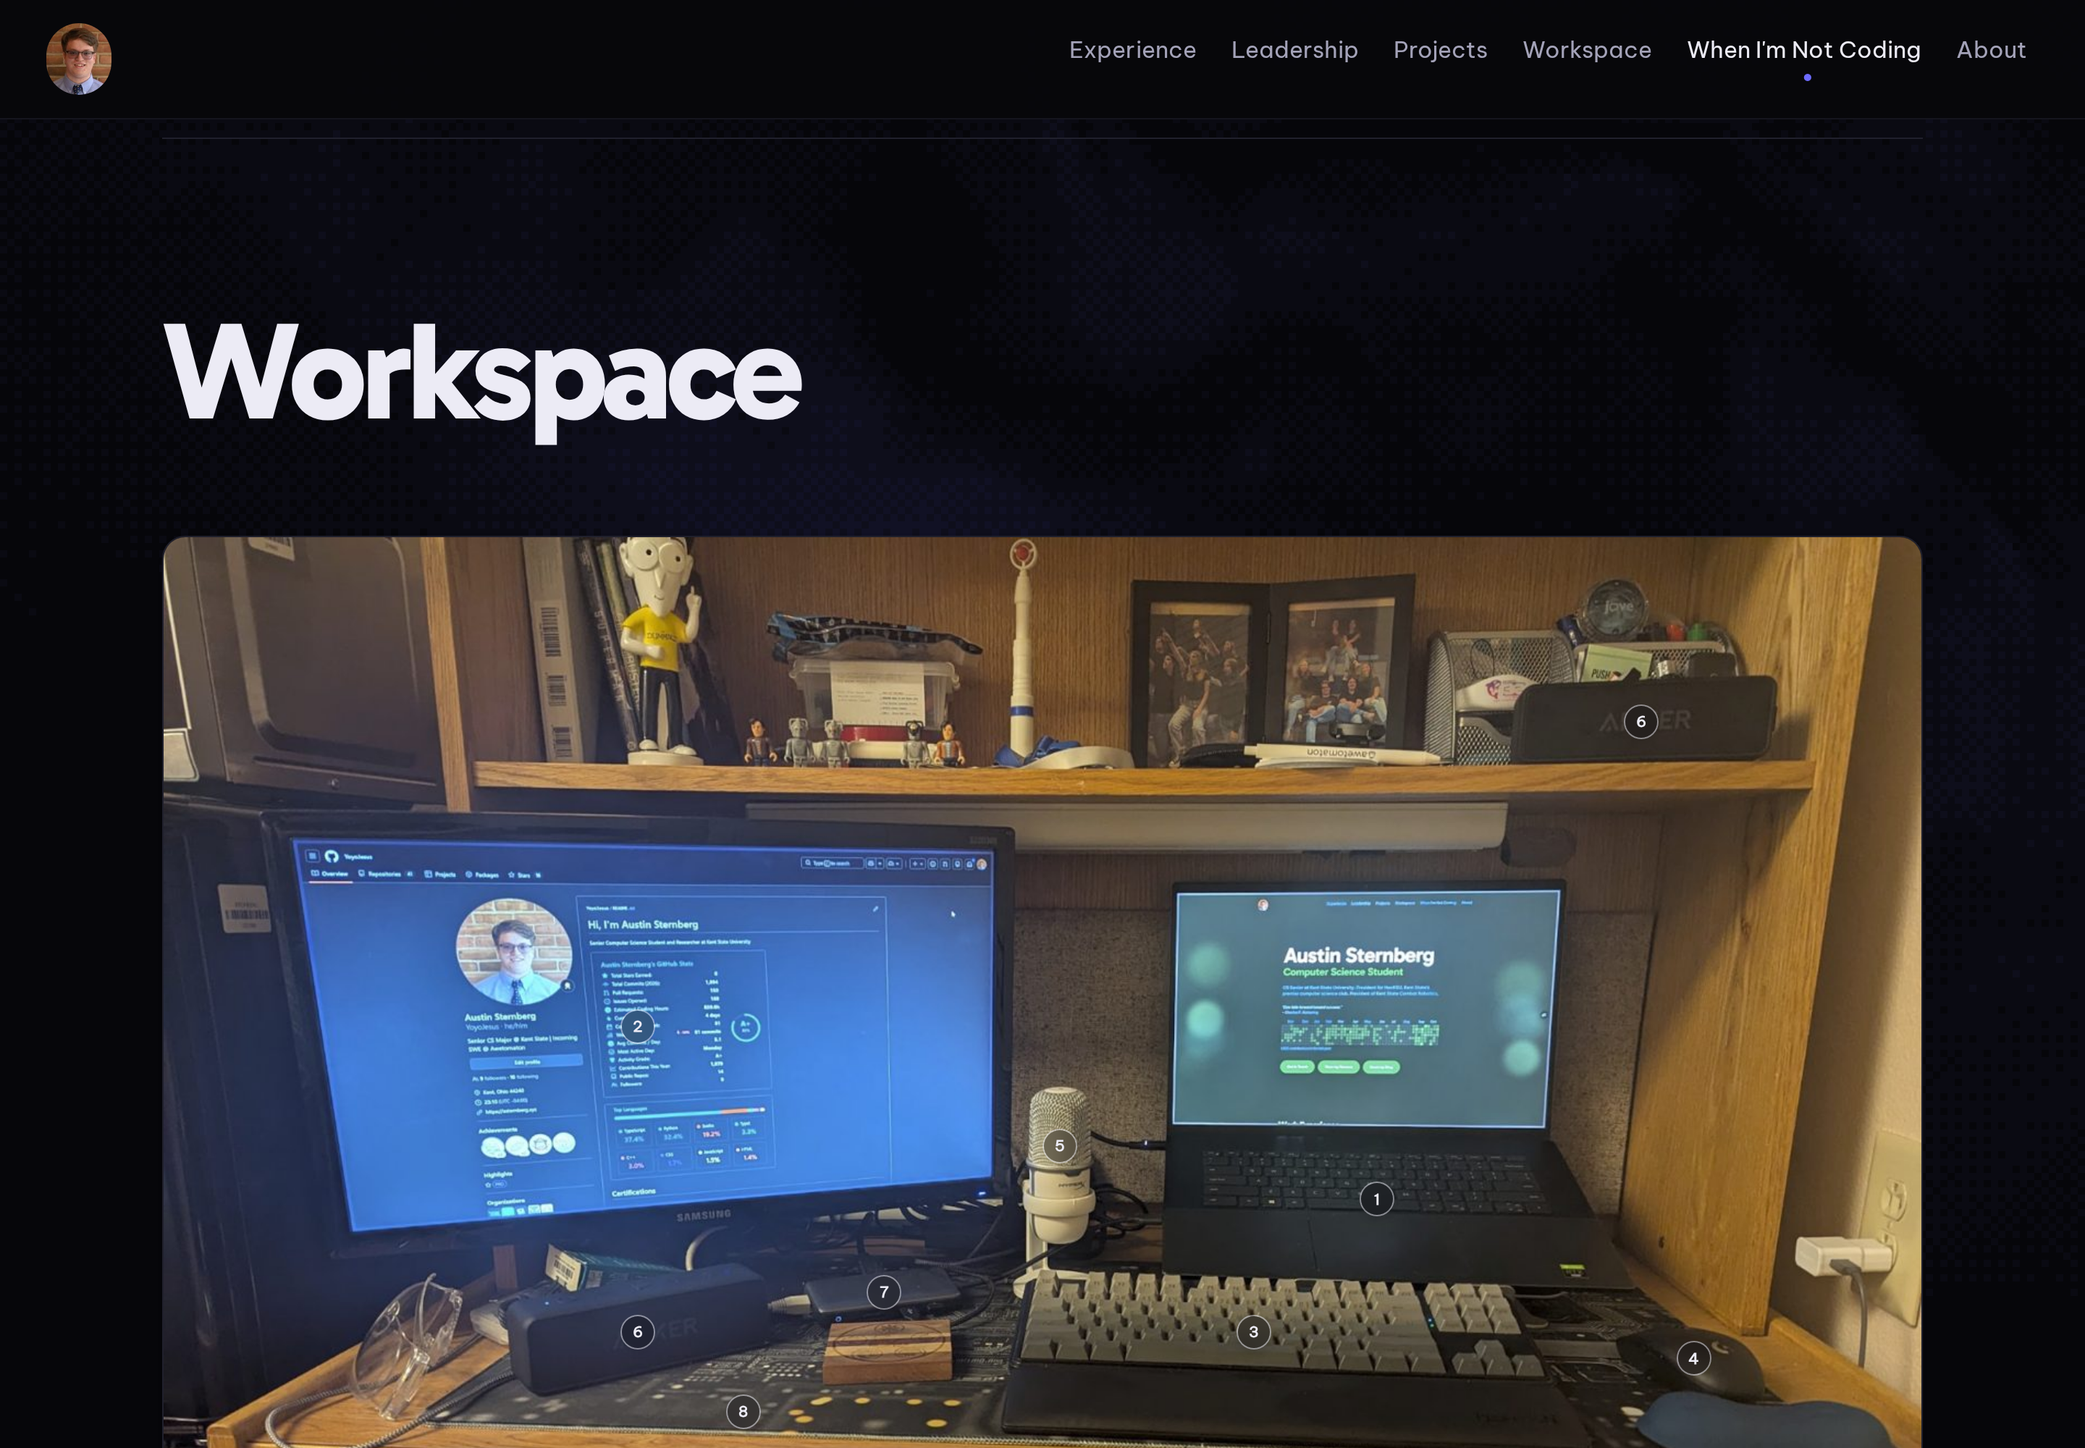
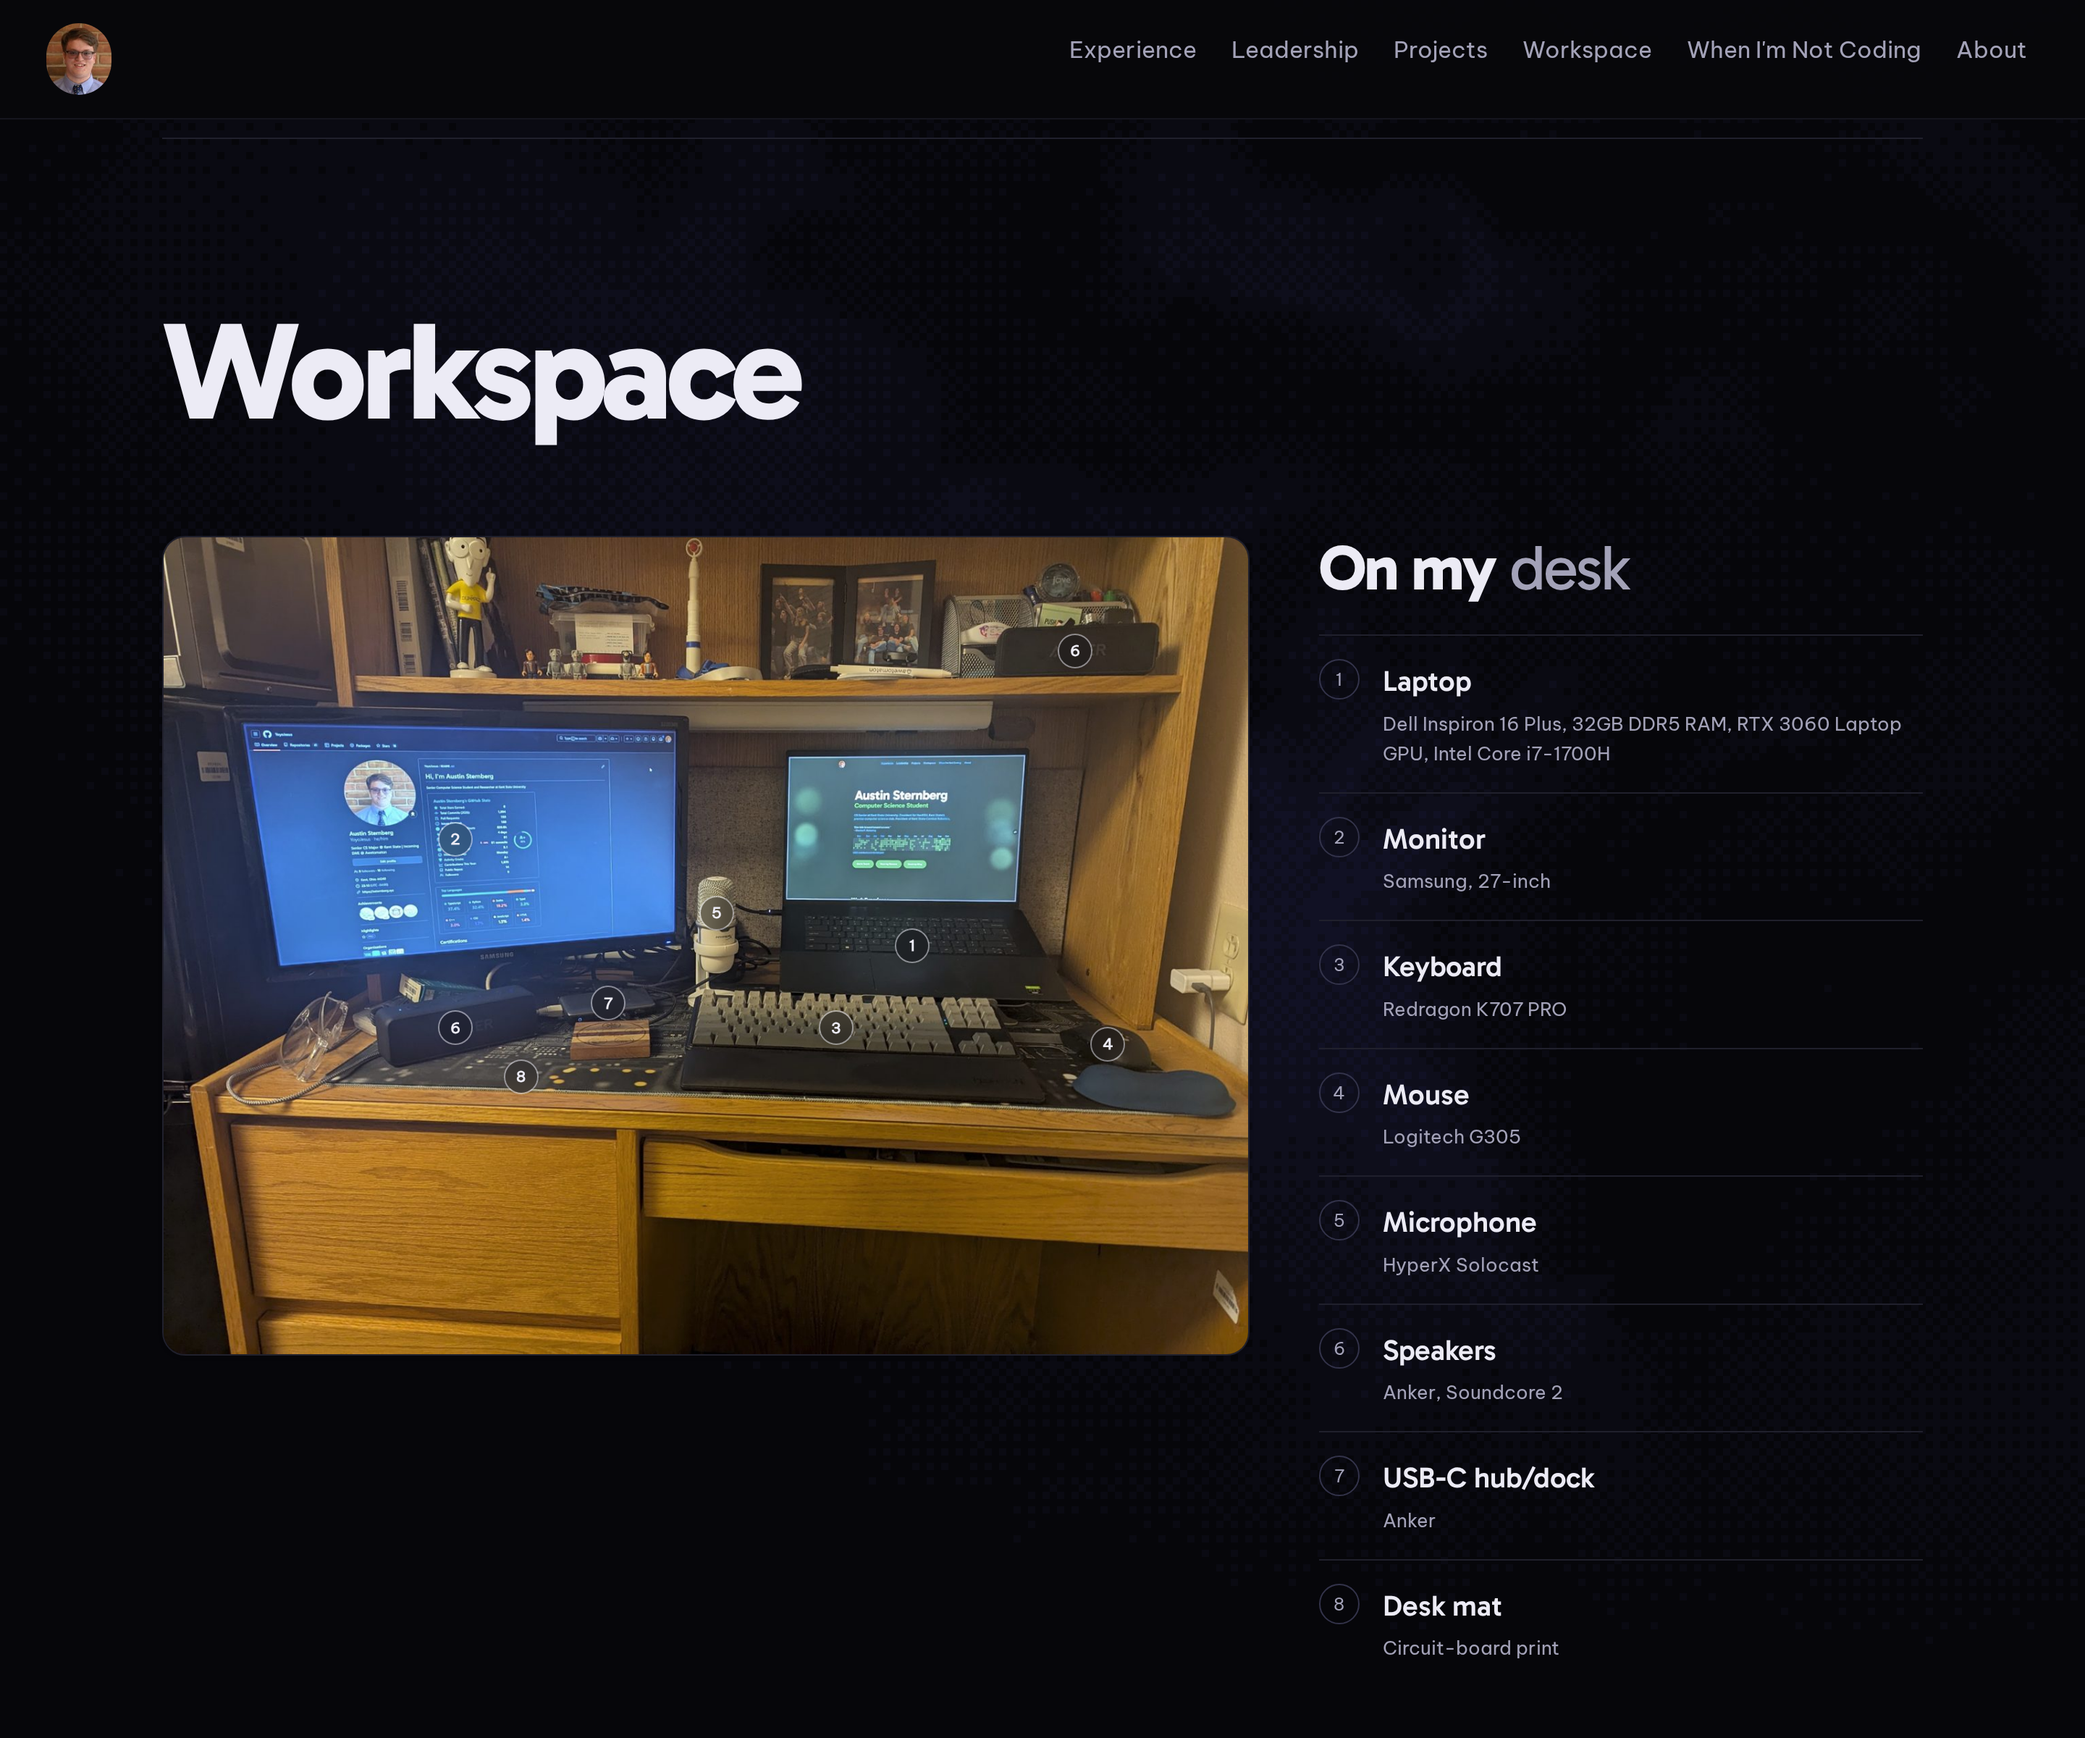
style: redesign workspace spread and media journal layouts

diff --git a/src/lib/components/OffTheClock.svelte b/src/lib/components/OffTheClock.svelte
@@ -29,7 +29,6 @@
   let { films, listening, letterboxdUser, lastfmUser, gaming, steamId }: Props = $props();
 
   // Phones only get the first three films and games.
-  const mobileHide = (i: number) => (i >= 3 ? "max-sm:hidden" : "");
   const maxPlays = $derived(Math.max(...listening.topArtists.map((a) => a.plays), 1));
   const watchedOn = (d: string) =>
     new Date(`${d}T12:00:00`).toLocaleDateString("en-US", { month: "short", day: "numeric" });
@@ -42,8 +41,8 @@
   const toggleReview = (i: number) => (openReview = openReview === i ? null : i);
 
   // Keep popovers on screen: the first column opens rightward, the last leftward, and the phone's middle column centers.
-  const mobileSide = ["max-sm:left-0", "max-sm:left-1/2 max-sm:-translate-x-1/2", "max-sm:right-0"];
-  const popoverSide = (i: number) => `${mobileSide[i % 3]} ${i % 5 === 0 ? "sm:left-0" : "sm:right-0"}`;
+  const mobileSide = (i: number) => i === 0 || i % 2 === 1 ? "max-sm:left-0" : "max-sm:right-0";
+  const popoverSide = (i: number) => `${mobileSide(i)} ${i % 5 === 0 ? "sm:left-0" : "sm:right-0"}`;
 </script>
 
 <!-- composedPath keeps the original ancestors, so clicks on buttons that remove themselves (like the spoiler reveal) still count as inside. -->
@@ -55,7 +54,8 @@
 />
 
 <Section text={hacker.on ? "$ ps aux --afk" : "When I'm Not Coding"} href="not-coding">
-  <div class="activity-section">
+  <div class="media-journal">
+  <div class="activity-section film-journal">
     <div class="activity-heading">
       <h3 class="activity-title">
         <IconLetterboxd class="size-6 text-accent" /> Recently <span>Watched</span>
@@ -69,9 +69,9 @@
       </a>
     </div>
     {#if films.length}
-      <ul class="grid grid-cols-3 gap-3 sm:grid-cols-5">
+      <ul class="film-shelf">
         {#each films as f, i}
-          <li class={["relative", mobileHide(i)]}>
+          <li class="film-entry relative">
             <a href={f.link} target="_blank" class="group block" title={`${f.title} (${f.year})`}>
               <img
                 src={f.poster}
@@ -80,6 +80,7 @@
                 class="aspect-[2/3] w-full rounded-lg border border-neutral/20 object-cover transition-all group-hover:ring-2 group-hover:ring-accent"
               />
             </a>
+            <p class="film-name">{f.title} <span>({f.year})</span></p>
             <div class="mt-1.5 flex flex-wrap items-center justify-between gap-x-1 text-xs whitespace-nowrap">
               <span class="text-accent">{stars(f.rating)}</span>
               <span class="flex items-center gap-1 text-neutral">
@@ -182,7 +183,7 @@
     {/if}
   </div>
 
-  <div class="activity-section">
+  <div class="activity-section music-journal">
     <div class="activity-heading">
       <h3 class="activity-title">
         <IconLastfm class="size-6 text-accent" /> Listening <span>Activity</span>
@@ -202,7 +203,7 @@
           : "Last.fm didn't respond. Try refreshing in a minute."}
       </p>
     {:else}
-      <div class="grid grid-cols-1 gap-10 sm:grid-cols-2">
+      <div class="music-columns">
         <ol class="min-w-0 space-y-3">
           {#each listening.recent as t}
             <li>
@@ -246,7 +247,8 @@
     {/if}
   </div>
 
-  <div class="activity-section">
+  </div>
+  <div class="activity-section games-journal">
     <div class="activity-heading">
       <h3 class="activity-title">
         <IconSteam class="size-6 text-accent" /> Most <span>Played</span>
@@ -260,17 +262,18 @@
       </a>
     </div>
     {#if gaming.games.length}
-      <ul class="grid grid-cols-3 gap-3 sm:grid-cols-5">
+      <ul class="game-shelf">
         {#each gaming.games as g, i}
-          <li class={mobileHide(i)}>
-            <a href={g.link} target="_blank" class="group block" title={g.name}>
+          <li>
+            <a href={g.link} target="_blank" class="game-entry group" title={g.name}>
               <img
                 src={g.cover}
                 alt={`${g.name} cover`}
                 loading="lazy"
                 class="aspect-[2/3] w-full rounded-lg border border-neutral/20 object-cover transition-all group-hover:ring-2 group-hover:ring-accent"
               />
-              <span class="mt-1.5 flex items-center justify-between text-xs">
+              <span class="game-info">
+                <strong>{g.name}</strong>
                 <span class="text-accent tabular-nums">{g.hours.toLocaleString("en-US")} hrs</span>
                 <span class="flex items-center gap-1 text-neutral">
                   {#if g.recent}<IconController class="size-3.5 text-accent" />{/if}
@@ -306,7 +309,22 @@
 </Section>
 
 <style>
-  .activity-section + .activity-section { margin-top: 4rem; padding-top: 3rem; border-top: 1px solid var(--color-edge-strong); }
+  .media-journal { display: grid; gap: 3rem; align-items: start; }
+  .film-shelf { display: grid; grid-template-columns: repeat(2, minmax(0, 1fr)); gap: 2rem 1rem; }
+  .film-entry:first-child { grid-column: 1 / -1; }
+  .film-entry:first-child > a { max-width: 22rem; }
+  .film-name { margin-top: 0.75rem; color: var(--color-white); font-family: var(--font-serif); font-size: 1.15rem; line-height: 1.25; }
+  .film-name span { color: var(--color-neutral); font-size: 0.8rem; }
+  .music-columns { display: grid; gap: 2.5rem; min-width: 0; }
+  .games-journal { margin-top: 4rem; padding-top: 3rem; border-top: 1px solid var(--color-edge-strong); }
+  .game-shelf { display: grid; gap: 1rem 2rem; }
+  .game-entry { display: grid; grid-template-columns: 4rem minmax(0, 1fr); align-items: center; gap: 1rem; padding-block: 1rem; border-top: 1px solid var(--color-edge); }
+  .game-entry img { width: 4rem; height: 5.5rem; }
+  .game-info { display: flex; flex-direction: column; align-items: start; gap: 0.4rem; font-size: 0.8rem; }
+  .game-info strong { font-family: var(--font-serif); color: var(--color-white); font-size: 1.3rem; font-weight: 500; }
+  @media (min-width: 640px) { .film-shelf { grid-template-columns: repeat(4, minmax(0, 1fr)); } .film-entry:first-child { grid-column: span 2; grid-row: span 2; } .game-shelf { grid-template-columns: repeat(2, minmax(0, 1fr)); } }
+  @media (min-width: 1100px) { .media-journal { grid-template-columns: minmax(0, 1.5fr) minmax(0, 1fr); gap: 3rem; } .music-journal { padding-left: 2.5rem; border-left: 1px solid var(--color-edge-strong); } }
+
   .activity-heading { display: flex; flex-wrap: wrap; align-items: baseline; justify-content: space-between; gap: 0.75rem 1.5rem; margin-bottom: 1.75rem; }
   .activity-title { display: flex; flex-wrap: wrap; align-items: center; gap: 0.5rem; color: var(--color-white); font-family: var(--font-serif); font-size: clamp(2rem, 4vw, 3.5rem); line-height: 1.1; font-weight: 750; letter-spacing: -0.035em; }
   :global(#not-coding .group img) { border-radius: 0.75rem; }

diff --git a/src/lib/components/Workspace.svelte b/src/lib/components/Workspace.svelte
@@ -16,7 +16,6 @@
   const current = $derived(hacker.on ? hackerWorkspace : workspace);
   const hasImage = $derived(!!current.image?.trim());
   // Pinned gear lives in the photo popovers; anything else is listed below it.
-  const unpinned = $derived(current.gear.filter((item) => !hasImage || !pinsOf(item).length));
 
   let activeIndex = $state<number | null>(null);
   // Which of the active item's pins is hovered/focused; only that one shows the popover.
@@ -26,7 +25,7 @@
 
   // Tapping outside any pin closes the popover on touch screens.
   function closeOnOutside(e: MouseEvent) {
-    if (!(e.target as Element).closest(".workspace-pin")) activeIndex = null;
+    if (!(e.target as Element).closest(".workspace-pin, .gear-item")) activeIndex = null;
   }
 
   const activate =
@@ -63,7 +62,7 @@
   {/if}
 {/snippet}
 
-<svelte:window onclick={closeOnOutside} />
+<svelte:window onclick={closeOnOutside} onkeydown={(e) => { if (e.key === "Escape") activeIndex = null; }} />
 
 <Section text={hacker.on ? "$ neofetch" : "Workspace"} href="workspace">
   {#if hacker.on}
@@ -73,8 +72,9 @@
     </div>
   {/if}
 
+  <div class="desk-spread">
   {#if hasImage}
-    <div class="relative">
+    <div class="desk-photo relative">
       <img
         src={current.image}
         alt={current.imageAlt || (hacker.on ? "Hacking workspace setup" : "Workspace desk setup")}
@@ -166,31 +166,35 @@
     </div>
   {/if}
 
-  {#if unpinned.length}
-    <ul
-      class={["flex flex-wrap gap-x-5 gap-y-2.5 text-sm", hasImage ? "mt-5" : "flex-col", hacker.on && "font-mono"]}
-      aria-label="Gear"
-    >
-      {#each unpinned as item (item.name)}
-        <li class="flex flex-wrap items-baseline gap-x-2">
-          {@render itemName(item, hacker.on ? "text-white lowercase" : "text-white")}
-          {#if item.detail}<span class="text-xs text-neutral">{item.detail}</span>{/if}
-          {#if item.since}<span class="text-xs text-neutral/70">{hacker.on ? "# " : ""}since {item.since}</span>{/if}
-          {#if item.trying}<span class="text-xs text-accent">{hacker.on ? "# trying" : "currently trying"}</span>{/if}
+  <aside class="gear-index" aria-label="Desk equipment">
+    <h3>On my <span>desk</span></h3>
+    <ol>
+      {#each current.gear as item, i (item.name)}
+        <li class="gear-item" class:selected={activeIndex === i}>
+          {#if hasImage && pinsOf(item).length}
+            <button type="button" class="gear-number" aria-label="Show {item.name} in photo" aria-pressed={activeIndex === i} onclick={() => activeIndex === i ? activeIndex = null : activate(i)()}>{i + 1}</button>
+          {:else}<span class="gear-number">{i + 1}</span>{/if}
+          <div>
+            {@render itemName(item, "gear-name")}
+            {#if item.detail}<p>{item.detail}</p>{/if}
+            {#if item.since}<small>Since {item.since}</small>{/if}
+            {#if item.trying}<small class="text-accent">Currently trying</small>{/if}
+          </div>
         </li>
       {/each}
-    </ul>
-  {/if}
+    </ol>
+  </aside>
+  </div>
 
   {#if !hacker.on}
-    <div class="mt-12 space-y-6 sm:mt-16 sm:space-y-8">
+    <div class="tool-library">
       {#each current.groups as group (group.title)}
         <div class="setup-group">
           <h3 class="setup-group-title">{group.title}</h3>
           <ul class="flex min-w-0 flex-1 flex-wrap items-center gap-2" aria-label="{group.title} tools">
             {#each group.items as item (item.name)}
               <li
-                class="inline-flex items-center rounded-full border border-edge-strong bg-black/40 px-4 py-2 text-sm leading-tight text-chip"
+                class="tool-item"
                 title={chipTitle(item)}
               >
                 {#snippet chip()}
@@ -249,7 +253,22 @@
 </Section>
 
 <style>
-  .setup-group { display: flex; flex-direction: column; gap: 1rem; padding-top: 1.5rem; border-top: 1px solid var(--color-edge); }
-  .setup-group-title { flex-shrink: 0; width: 11rem; font-family: var(--font-serif); font-size: 1.75rem; font-weight: 450; line-height: 1.1; color: var(--color-neutral); letter-spacing: -0.025em; }
-  @media (min-width: 800px) { .setup-group { flex-direction: row; align-items: baseline; gap: 3rem; } }
+  .desk-spread { display: grid; gap: 2rem; align-items: start; }
+  .desk-photo { min-width: 0; }
+  .gear-index h3 { font-family: var(--font-serif); font-size: 2.75rem; letter-spacing: -0.035em; line-height: 1; margin-bottom: 1.5rem; font-weight: 750; }
+  .gear-index h3 span { color: var(--color-neutral); font-weight: 400; }
+  .gear-item { display: grid; grid-template-columns: 2rem minmax(0, 1fr); gap: 0.75rem; padding: 1rem 0; border-top: 1px solid var(--color-edge); }
+  .gear-item.selected { border-color: var(--color-volt-soft); }
+  .gear-number { width: 1.75rem; height: 1.75rem; display: grid; place-items: center; border: 1px solid var(--color-edge-strong); border-radius: 50%; color: var(--color-neutral); font-size: 0.75rem; }
+  button.gear-number { cursor: pointer; }
+  .selected .gear-number { background: var(--color-accent); color: var(--color-black); }
+  .gear-item :global(.gear-name) { font-family: var(--font-serif); color: var(--color-white); font-size: 1.25rem; font-weight: 550; }
+  .gear-item p { margin-top: 0.3rem; color: var(--color-neutral); font-size: 0.8rem; line-height: 1.6; }
+  .gear-item small { display: block; margin-top: 0.3rem; color: var(--color-neutral); font-size: 0.7rem; }
+  .tool-library { display: grid; gap: 2.5rem; margin-top: 4rem; padding-top: 3rem; border-top: 1px solid var(--color-edge-strong); }
+  .setup-group { min-width: 0; }
+  .setup-group-title { font-family: var(--font-serif); font-size: 2rem; font-weight: 450; line-height: 1.1; color: var(--color-neutral); letter-spacing: -0.025em; margin-bottom: 1.25rem; }
+  .tool-item { width: 100%; padding-block: 0.65rem; border-bottom: 1px solid var(--color-edge); color: var(--color-chip); font-size: 0.9rem; }
+  @media (min-width: 700px) { .tool-library { grid-template-columns: repeat(3, minmax(0, 1fr)); } }
+  @media (min-width: 1000px) { .desk-spread { grid-template-columns: minmax(0, 1.8fr) minmax(16rem, 1fr); gap: 3rem; } .desk-photo { position: sticky; top: 7rem; } }
 </style>
